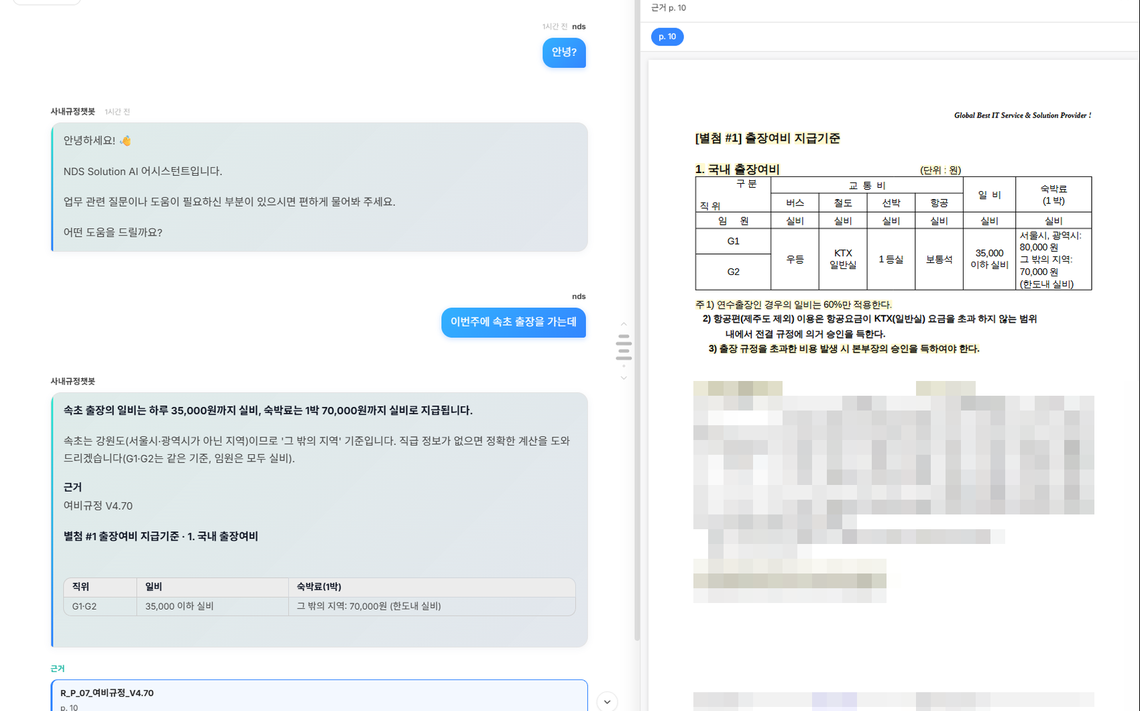
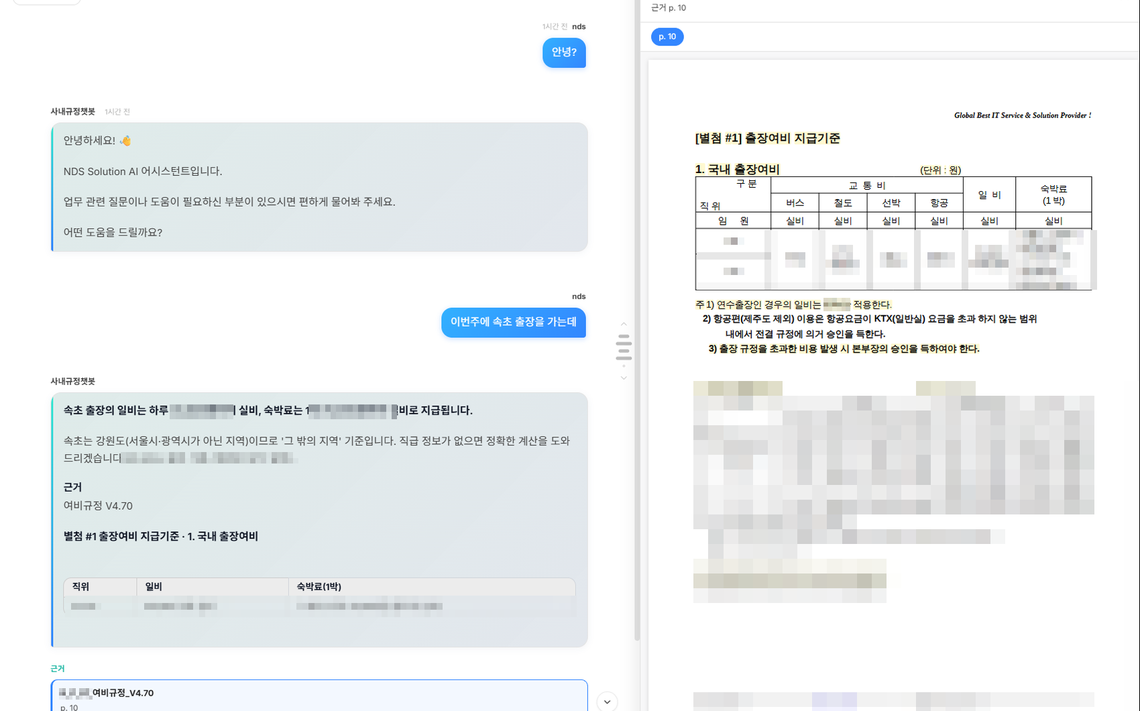
RAG chatbot story and images, job titles in timeline, skills cleanup
- RAG chatbot: background, task, action (six sub-sections), PoC test; new cover and masked gallery images
- Timeline: add position and team to Nongshim, GENINUS and GxD roles
- Remove MCP from the skills section

diff --git a/portfolio-data.js b/portfolio-data.js
@@ -5,7 +5,7 @@ const locale = (ko, en) => ({ ko, en });
 // Project: id, title, client/domain, period (null = to be added), overview, duties[], results[], tools[]
 // Project images live in assets/projects/<id>/ : cover.jpg (or .png/.webp/.svg) and optional gallery 1.jpg ... 6.jpg (or .png)
 // 이미지 주소에 붙이는 버전: 같은 파일명으로 사진을 바꿨을 때 브라우저 캐시를 무효화한다
-const ASSET_V = '20261129o';
+const ASSET_V = '20261130i';
 function imgFallback(el) {
   const exts = el.dataset.exts.split(',');
   const n = Number(el.dataset.n || 0);
@@ -246,16 +246,20 @@ const portfolioProjects = [
     id: "rag-chatbot",
     story: {
       situation: {
-        ko: "사내 규정문서는 종류가 많고 내용이 길어서, 필요한 조항을 직접 찾아 확인하는 데 시간이 걸렸습니다.",
-        en: "Internal policy documents are numerous and long, so finding and checking the needed provisions by hand took time."
+        ko: "회사의 전사적인 AX 도입을 검토하던 시기에 사내 규정문서와 공지사항은 기존 레거시 홈페이지에 분산되어 있었습니다. 필요한 규정을 확인하려면 여러 페이지와 문서를 직접 찾아야 했으며, 문서의 양도 많아 원하는 정보를 찾는 데 어려움이 있었습니다. 이러한 상황에서 팀장님이 타 기업의 사내 규정문서 활용 사례를 참고해 내부 도입을 제안했고, 임원회의 승인을 받아 사내 규정문서 기반 RAG 챗봇 프로젝트를 시작했습니다.",
+        en: "While the company was considering company-wide AX adoption, internal policy documents and announcements were scattered across the legacy website. To check a needed policy, one had to search through several pages and documents by hand, and the sheer volume made it hard to find the information wanted. In this situation, our team lead referred to other companies' use of internal policy documents and proposed adopting it internally, and with executive-meeting approval we started the internal policy-document RAG chatbot project."
       },
       task: {
-        ko: "규정을 쉽게 검색하고 답변의 근거가 되는 문서를 바로 확인할 수 있는 챗봇이 필요했습니다.",
-        en: "We needed a chatbot that makes policies easy to search and lets users check the source document behind each answer right away."
+        ko: "우선 레거시 홈페이지에 흩어져 있는 규정문서를 수집하고, 실제 업무에 필요한 문서를 선별해야 했습니다. 실무 관련 문서 112개를 추린 뒤 최신 버전 44개로 정리했으며, 초기 테스트에 적합한 문서 6개를 선정했습니다. 빠르게 PoC를 구축해야 하는 상황에서 미국 파견 당시 사용했던 LibreChat을 활용했습니다. 처음에는 PDF를 업로드하면 자동으로 임베딩하고 검색하는 기본 RAG 기능을 사용했지만, 규정문서처럼 정확한 답변과 근거 확인이 중요한 환경에서는 한계가 있었습니다. 특히 여러 규정의 내용이 하나의 답변에 섞이거나, PDF 표 구조가 손상되어 첫 행의 내용과 두번째 내용이 겹쳐지거나, 금액과 친족 관계를 잘못 해석하는 여러 문제가 발생했습니다. 이를 해결하기 위해 기존 문서 처리 기능은 활용하면서도 질문 분류, 검색 결과 검증, 답변 생성 및 계산 과정을 직접 제어할 수 있는 구조가 필요하다고 판단했습니다.",
+        en: "First, the policy documents scattered across the legacy website had to be collected and the ones needed for actual work selected. I narrowed them to 112 work-related documents, organized them into 44 latest versions, and chose 6 documents suitable for initial testing. Since the PoC had to be built quickly, I used LibreChat, which I had used during the US assignment. At first I used its basic RAG feature, which automatically embeds and searches PDFs after upload, but it had limits in an environment like policy documents where accurate answers and source verification matter. In particular, several problems occurred: content from multiple policies got mixed into a single answer, damaged PDF table structures made the first row's content overlap with the next, and amounts and family relationships were misinterpreted. To solve this, I judged that we needed a structure that reuses the existing document-processing features while letting us directly control question classification, search-result verification, answer generation, and calculation."
       },
       action: {
-        ko: "사내에서 쓰는 LibreChat에 FastAPI 기반 자체 Agent 서비스를 연동하고, LangGraph로 질의 처리 흐름을 만들었습니다. 일반 대화에는 Haiku, 규정 검색과 결과 재정렬에는 Sonnet을 적용해 비용을 고려한 모델 분기 구조를 구현했습니다. 관련 규정문서 후보를 최대 3개까지 보여주고 사용자가 선택하면, 해당 PDF 페이지의 인용 구간을 강조해 근거를 확인할 수 있게 했습니다. 이후 사내에 배포하고 기능을 개선하며 사용 비용을 모니터링하고 있습니다.",
-        en: "Integrated a FastAPI-based in-house Agent service into the company's LibreChat and built the query-handling flow with LangGraph. Implemented a cost-aware model routing structure, using Haiku for general conversation and Sonnet for policy search and re-ranking. It shows up to three candidate policy documents for the user to choose from, then highlights the cited passage on the matching PDF page so the source can be verified. After deploying internally, I keep improving features and monitoring usage cost."
+        ko: "[LibreChat 문서 처리는 활용하고, 질의 처리는 직접 개발]\n문서 업로드와 벡터 저장은 LibreChat의 문서 처리 구성(rag_api)을 그대로 활용하고, 임베딩 모델만 Amazon Bedrock Titan으로 지정했습니다. 벡터 저장소는 pgvector입니다. 질문이 들어온 뒤의 처리는 LangGraph 기반 서비스를 직접 개발해, LibreChat 에이전트가 이 서비스를 거쳐 답하도록 연결했습니다. 기본 방식은 모델이 검색 도구를 부를지 스스로 판단하지만, 이 구조에서는 접수 단계에서 질문을 일반 대화, 규정 질문, 후보 선택, 계산으로 나누고 규정 질문이면 반드시 검색합니다.\n[검색 정확도 개선]\n질문을 규정 검색에 맞는 검색어로 바꾸고, 관련도가 낮은 조각과 개정 이력 표는 걸러내며, 한 문서에서 가져오는 조각 수에 상한을 두었습니다. 남은 후보 16개는 Sonnet으로 다시 정렬해 5개만 답변에 쓰고, 결과가 부족하면 검색어를 고쳐 한 번 더 검색합니다.\n[표 보정]\nPDF에서 글자만 뽑으면 표의 칸 구분이 사라져 한 줄로 이어 붙는 문제가 있어서, 표가 깨지는 쪽은 직접 옮겨 적은 표 텍스트로 교체해 답변에 사용합니다.\n[근거 확인과 후보 선택]\n여러 문서가 걸리는 질문에는 답을 섞지 않고 문서 후보 버튼을 보여 주어 사용자가 고르게 했습니다. 답변에는 문서명과 쪽 번호를 출처로 붙이고, 화면의 근거 패널에서 해당 쪽을 PDF로 미리 볼 수 있게 했습니다.\n[계산과 모델 분기]\n금액 계산이 필요한 질문은 규칙을 추출한 뒤 계산기로 직접 계산해 숫자 오류를 줄였고, 경조사 친족 관계는 별도 코드로 풀이합니다. 숫자가 틀리면 안 되는 접수 판정, 재정렬, 규칙 추출에는 Sonnet을, 검색어 변환, 일반 대화, 답변에는 Haiku를 사용해 비용을 나눴습니다. 모든 AI 호출은 LiteLLM을 거쳐 사용자별 사용량이 기록됩니다.\n[운영과 남은 과제]\n사내에 배포한 뒤 기능을 개선하며 사용 비용을 모니터링하고 있습니다. 문서 읽기와 자르기(1500자 단위, 100자 겹침)는 LibreChat 기본값 그대로라서 표 처리나 조각 방식을 바꾸려면 해당 구성요소를 직접 고쳐야 하며, 품질 평가 결과를 보고 개선 방향을 정할 예정입니다.",
+        en: "[Reusing LibreChat's document handling, building query handling in-house]\nDocument upload and vector storage reuse LibreChat's document-processing component (rag_api), with only the embedding model set to Amazon Bedrock Titan. The vector store is pgvector. For everything after a question arrives, I built a LangGraph-based service and connected the LibreChat agent to answer through it. By default the model itself decides whether to call a search tool, but in this structure an intake step classifies each question as general chat, policy question, candidate selection, or calculation, and always searches for policy questions.\n[Improving search accuracy]\nThe question is rewritten into a query suited to policy search, low-relevance chunks and revision-history tables are filtered out, and the number of chunks taken from one document is capped. The remaining 16 candidates are re-ranked with Sonnet and only 5 are used in the answer; if the result is insufficient, the query is revised and searched once more.\n[Table correction]\nExtracting only text from a PDF loses table cell boundaries and runs the contents together on one line, so pages where tables break are replaced with hand-transcribed table text before answering.\n[Source checking and candidate selection]\nWhen a question matches several documents, the answers are not blended; candidate document buttons are shown so the user chooses. Answers carry the document name and page number as the source, and a source panel lets users preview the matching page as a PDF.\n[Calculation and model routing]\nFor questions that need amounts, rules are extracted and then computed with a calculator to reduce numeric errors, and family-relationship rules for condolence and congratulatory events are resolved by separate code. Sonnet handles intake classification, re-ranking, and rule extraction, where wrong numbers are unacceptable, while Haiku handles query rewriting, general chat, and answers, splitting the cost. All AI calls go through LiteLLM so usage is recorded per user.\n[Operations and remaining work]\nAfter internal deployment, I keep improving features and monitoring usage cost. Document reading and splitting (1,500-character chunks with 100-character overlap) use LibreChat's defaults, so changing table handling or chunking requires modifying that component directly; the direction will be decided after a quality evaluation."
+      },
+      test: {
+        ko: "실무자들이 확인하고 싶은 부분만 채팅으로 확인하는 작업이 대부분이었고, 코드를 구현하거나 같은 질문과 꼬리 질문을 반복하는 일이 예상보다 적어서 비용은 Claude Code PoC 때보다 현저히 낮았습니다. 하지만 여러 질문과 단답형 질문, 실제 가족 관계 요청 등에서 잘못된 답변이 나온다는 Q&A가 들어왔고, 이 이슈들을 해결하는 작업이 필요했습니다.",
+        en: "Most usage was practitioners checking only the parts they wanted through chat, and there was less coding and fewer repeated or follow-up questions than expected, so the cost was far lower than in the Claude Code PoC. However, Q&A came in about wrong answers to multi-part questions, short-answer questions, and real family-relationship requests, and work was needed to resolve these issues."
       }
     },
     featured: true,
@@ -304,7 +308,8 @@ const portfolioProjects = [
       ]
     },
     gallery: [
-      { ko: "답변과 근거 문서 표시 (여비규정 해당 페이지, 일부 모자이크 처리)", en: "Answer with cited source document (travel expense regulation page, partly blurred)" }
+      { ko: "답변과 근거 문서 표시 (여비규정 해당 페이지, 일부 모자이크 처리)", en: "Answer with cited source document (travel expense regulation page, partly blurred)" },
+      { ko: "가족 관계 질문에 대한 답변: 친족 관계를 풀이해 해당 규정 표와 출처 안내", en: "Answer to a family-relationship question: resolves the kinship and shows the matching policy tables and sources" }
     ],
     tools: [
       "Python",
@@ -757,7 +762,6 @@ const skills = [
   ['ai', 'implemented', 'LibreChat', 'librechat', '사내 AI 챗봇 서비스 구성과 AI Gateway 연동', 'Internal AI chatbot service integrated with the AI Gateway'],
   ['ai', 'exploring', 'LangGraph', 'langgraph', 'AI Agent 워크플로 설계', 'AI agent workflow design'],
   ['ai', 'implemented', 'Skills', 'claude-code', '사내 AI 개발 도구 도입과 사용 환경 구성', 'Introduced and configured AI development tooling for the company'],
-  ['ai', 'exploring', 'MCP', 'mcp', 'Tool Calling과 MCP 기반 도구 연동', 'Tool calling and MCP-based integrations'],
   ['cloud', 'production', 'AWS', 'aws', '클라우드 환경 구축 및 서비스 운영', 'Cloud environment setup and service operations'],
   ['cloud', 'production', 'Docker', 'docker', '컨테이너 기반 분석 환경 구성과 자동 배포', 'Container-based analysis environments and automated deployment'],
   ['cloud', 'production', 'Singularity', 'singularity', '분석 모듈 컨테이너화와 서버 실행 환경 구성', 'Containerizing analysis modules and server runtime setup'],
@@ -774,19 +778,19 @@ const skills = [
 ].map(([c, level, n, icon, ko, en]) => ({ c, level, n, icon, d: locale(ko, en) }));
 
 const milestones = [
-  { f: 'exp', start: '2025-11', logo: 'nongshim.svg', org: locale('농심데이터시스템', 'Nongshim Data System'), role: locale('AI 솔루션 기획 및 개발, B2B 솔루션 구축', 'AI solution planning and development, B2B solution delivery'),
+  { f: 'exp', start: '2025-11', logo: 'nongshim.svg', org: locale('농심데이터시스템', 'Nongshim Data System'), role: locale('전략사업본부 솔루션팀 과장 / AI 솔루션 기획 및 개발, B2B 솔루션 구축', 'Manager, Solutions Team, Strategic Business Division / AI solution planning and development, B2B solution delivery'),
     text: locale('AI 솔루션, AI Agent 플랫폼, B2B 솔루션, 클라우드 아키텍처 분야를 담당합니다.', 'Working on AI solutions, AI agent platforms, B2B solutions, and cloud architecture.'),
     projects: ['nai-gateway', 'ai-re', 'rag-chatbot'],
     children: [
       { start: '2026-10', logo: 'inocras.png', org: locale('이노크라스 국내 파견', 'Inocras (domestic assignment)'), role: locale('농심데이터시스템 재직 중 국내 고객사 파견', 'Assigned to a domestic customer while at Nongshim Data System'), desc: locale('현재 NDA(비밀유지계약) 및 MOU(업무협약)에 따라 업무를 수행하고 있습니다.', 'Currently working under an NDA (non-disclosure agreement) and an MOU (memorandum of understanding).'), list: locale(["기존 분석 시스템의 데이터 처리 구조와 모듈 정리 및 운영 환경 파악", "기존 분석 시스템에서 해결되지 않은 문제의 원인 분석과 개선 방향 검토", "분석 처리 비용 최적화 및 모듈 단위 실행 속도 개선 제시", "가상화 기반 분석 모듈 환경 구성 및 개발", "raw data 분석 결과부터 시작하여, 각 모듈의 개선점을 시각화 활용한 결과 차이 검증", "고객사 국내 담당자 및 미국 지사와의 합동 회의를 통해 기술적 문제와 개선 방향 협의", "추후 각 모듈에 대해 조건에 따른 CPU와 GPU 하이브리드 파이프라인 구현 예정"], ["Organized the data-processing structure and modules of the existing analysis system and understood its operating environment", "Analyzed the causes of unresolved problems in the existing analysis system and reviewed improvement directions", "Proposed analysis cost optimization and faster module-level execution", "Configured and developed virtualization-based analysis module environments", "Starting from the raw-data analysis results, verified result differences for each module's improvements using visualization", "Discussed technical problems and improvement directions in joint meetings with the customer's domestic staff and the US branch", "Planned to implement hybrid CPU and GPU pipelines for each module depending on conditions"]), note: locale('* 회사 기밀 보호를 위해 세부 내용을 축약했습니다.', '* Details are abbreviated to protect confidential company information.'), toggle: true },
       { start: '2026-04', end: '2026-04', logo: 'inocras.png', org: locale('이노크라스 미국 파견', 'Inocras (US assignment)'), role: locale('농심데이터시스템 재직 중 해외 고객사 파견', 'Assigned to an overseas customer while at Nongshim Data System'), projects: ['cgn-aacr'] },
     ] },
-  { f: 'exp', start: '2022-03', end: '2025-11', logo: 'geninus.png', org: locale('지니너스', 'GENINUS'), role: locale('유전체 분석 소프트웨어 및 시스템 개발', 'Genomic analysis software and system development'),
+  { f: 'exp', start: '2022-03', end: '2025-11', logo: 'geninus.png', org: locale('지니너스', 'GENINUS'), role: locale('전략기획본부 AI센터 선임 연구원 / 유전체 분석 소프트웨어 및 시스템 개발', 'Senior Researcher, AI Center, Strategic Planning Division / Genomic analysis software and system development'),
     text: locale('Bioinformatics Engineering, Workflow Automation, 의료기관 시스템 구축, AWS 전환을 담당했습니다.', 'Worked on bioinformatics engineering, workflow automation, medical-institution system delivery, and AWS migration.'),
     projects: ['spatial', 'liquid-ldt', 'hospital', 'lims', 'aws-migration'],
     children: [
       { start: '2024-04', end: '2025-11', org: locale('국내용 CAP PT / 실사 대응(미국병리학회 인증)', 'Domestic CAP PT / Inspection response (College of American Pathologists accreditation)'), role: locale('분석 시스템 점검, SOP 및 증빙 문서 준비, CAP PT 분석 및 결과지 제출', 'System checks, SOP and evidence documents, CAP PT analysis and result reports'), list: locale(['CAP 실사를 위한 분석 시스템 점검 및 증빙 문서 준비', 'CAP PT 숙련도 평가용 데이터 분석 및 결과지 제출', 'Software SOP 및 데이터 형상관리 문서 작성', 'CAP 실사평가 대응'], ['Analysis system checks and evidence documents for the CAP inspection', 'Data analysis and result-report submission for CAP PT proficiency testing', 'Software SOP and data configuration-management documents', 'CAP inspection response']), note: locale('* 회사 기밀 보호를 위해 세부 내용을 축약했습니다.', '* Details are abbreviated to protect confidential company information.') },
-      { start: '2023-11', end: '2024-03', logo: 'gxd.png', org: locale('GxD 株式会社 (일본 파견)', 'GxD 株式会社 (Japan assignment)'), role: locale('지니너스 재직 중 일본 자회사 파견 (NCCE MONSTAR SCREEN-3)', 'Assigned to the Japan subsidiary while at GENINUS (NCCE MONSTAR SCREEN-3)'), projects: ['gxd-japan'] },
+      { start: '2023-11', end: '2024-03', logo: 'gxd.png', org: locale('GxD 株式会社 (일본 파견)', 'GxD 株式会社 (Japan assignment)'), role: locale('데이터사이언스센터 BI팀 주임 연구원 / 지니너스 재직 중 일본 자회사 파견 (NCCE MONSTAR SCREEN-3)', 'Associate Researcher, BI Team, Data Science Center / Assigned to the Japan subsidiary while at GENINUS (NCCE MONSTAR SCREEN-3)'), projects: ['gxd-japan'] },
     ] },
   { f: 'edu', link: 'assets/papers/dongguk-msc-thesis.pdf', start: '2019-03', end: '2021-02', org: locale('멀티미디어공학과 석사 (M.Sc.)', 'M.Sc., Multimedia Engineering'), inst: locale('동국대학교', 'Dongguk University'), text: locale('학점 4.39 / 4.5<br>석사 졸업 논문: Research on DNA Sequence Alignment Algorithm Based on Anchoring', 'GPA 4.39 / 4.5<br>Master’s thesis: Research on DNA Sequence Alignment Algorithm Based on Anchoring') },
   { f: 'edu', link: 'assets/papers/dongguk-bsc-report.pdf', start: '2013-03', end: '2019-02', org: locale('컴퓨터공학과 학사 (B.Sc.)', 'B.Sc., Computer Science and Engineering'), inst: locale('동국대학교', 'Dongguk University'), text: locale('학점 3.24 / 4.5<br>학사 졸업 논문: A domestic crime information system by year. (web site)', 'GPA 3.24 / 4.5<br>Bachelor’s thesis: A domestic crime information system by year. (web site)') },

diff --git a/index.html b/index.html
@@ -8,7 +8,7 @@
   <link rel="preconnect" href="https://fonts.googleapis.com">
   <link rel="preconnect" href="https://fonts.gstatic.com" crossorigin>
   <link href="https://fonts.googleapis.com/css2?family=IBM+Plex+Mono:wght@400;500&family=IBM+Plex+Sans+KR:wght@400;500;600;700&display=swap" rel="stylesheet">
-  <link rel="stylesheet" href="style.css?v=20261129o">
+  <link rel="stylesheet" href="style.css?v=20261130i">
 </head>
 <body>
   <header class="nav">
@@ -23,8 +23,8 @@
         <a href="#contact" data-i18n="nav.contact">Contact</a>
       </nav>
       <div class="nav-right">
-        <button class="flag" id="lang-ko" data-lang="ko" aria-label="한국어" aria-pressed="true"><img src="assets/flags/kr.png?v=20261129o" alt="" height="20"></button>
-        <button class="flag" id="lang-en" data-lang="en" aria-label="English" aria-pressed="false"><img src="assets/flags/us.png?v=20261129o" alt="" height="20"></button>
+        <button class="flag" id="lang-ko" data-lang="ko" aria-label="한국어" aria-pressed="true"><img src="assets/flags/kr.png?v=20261130i" alt="" height="20"></button>
+        <button class="flag" id="lang-en" data-lang="en" aria-label="English" aria-pressed="false"><img src="assets/flags/us.png?v=20261130i" alt="" height="20"></button>
               <button class="burger" id="burger" aria-label="메뉴" aria-expanded="false" aria-controls="menu"><svg viewBox="0 0 24 24" width="22" height="22" aria-hidden="true" fill="none" stroke="currentColor" stroke-width="2" stroke-linecap="round"><path d="M4 7h16M4 12h16M4 17h16"/></svg></button>
       </div>
     </div>
@@ -179,7 +179,7 @@
     </div>
   </footer>
   <a href="#home" class="totop" aria-label="맨 위로">↑</a>
-  <script src="portfolio-data.js?v=20261129o" defer></script>
-  <script src="script.js?v=20261129o" defer></script>
+  <script src="portfolio-data.js?v=20261130i" defer></script>
+  <script src="script.js?v=20261130i" defer></script>
 </body>
 </html>

diff --git a/project.html b/project.html
@@ -7,7 +7,7 @@
   <link rel="preconnect" href="https://fonts.googleapis.com">
   <link rel="preconnect" href="https://fonts.gstatic.com" crossorigin>
   <link href="https://fonts.googleapis.com/css2?family=IBM+Plex+Mono:wght@400;500&family=IBM+Plex+Sans+KR:wght@400;500;600;700&display=swap" rel="stylesheet">
-  <link rel="stylesheet" href="style.css?v=20261129o">
+  <link rel="stylesheet" href="style.css?v=20261130i">
 </head>
 <body>
   <header class="nav">
@@ -17,8 +17,8 @@
         <a href="index.html#projects" id="back-top"></a>
       </nav>
       <div class="nav-right">
-        <button class="flag" id="lang-ko" data-lang="ko" aria-label="한국어" aria-pressed="true"><img src="assets/flags/kr.png?v=20261129o" alt="" height="20"></button>
-        <button class="flag" id="lang-en" data-lang="en" aria-label="English" aria-pressed="false"><img src="assets/flags/us.png?v=20261129o" alt="" height="20"></button>
+        <button class="flag" id="lang-ko" data-lang="ko" aria-label="한국어" aria-pressed="true"><img src="assets/flags/kr.png?v=20261130i" alt="" height="20"></button>
+        <button class="flag" id="lang-en" data-lang="en" aria-label="English" aria-pressed="false"><img src="assets/flags/us.png?v=20261130i" alt="" height="20"></button>
       </div>
     </div>
   </header>
@@ -28,7 +28,7 @@
     <article id="project" class="panel"></article>
   </main>
 
-  <script src="portfolio-data.js?v=20261129o" defer></script>
-  <script src="project.js?v=20261129o" defer></script>
+  <script src="portfolio-data.js?v=20261130i" defer></script>
+  <script src="project.js?v=20261130i" defer></script>
 </body>
 </html>
